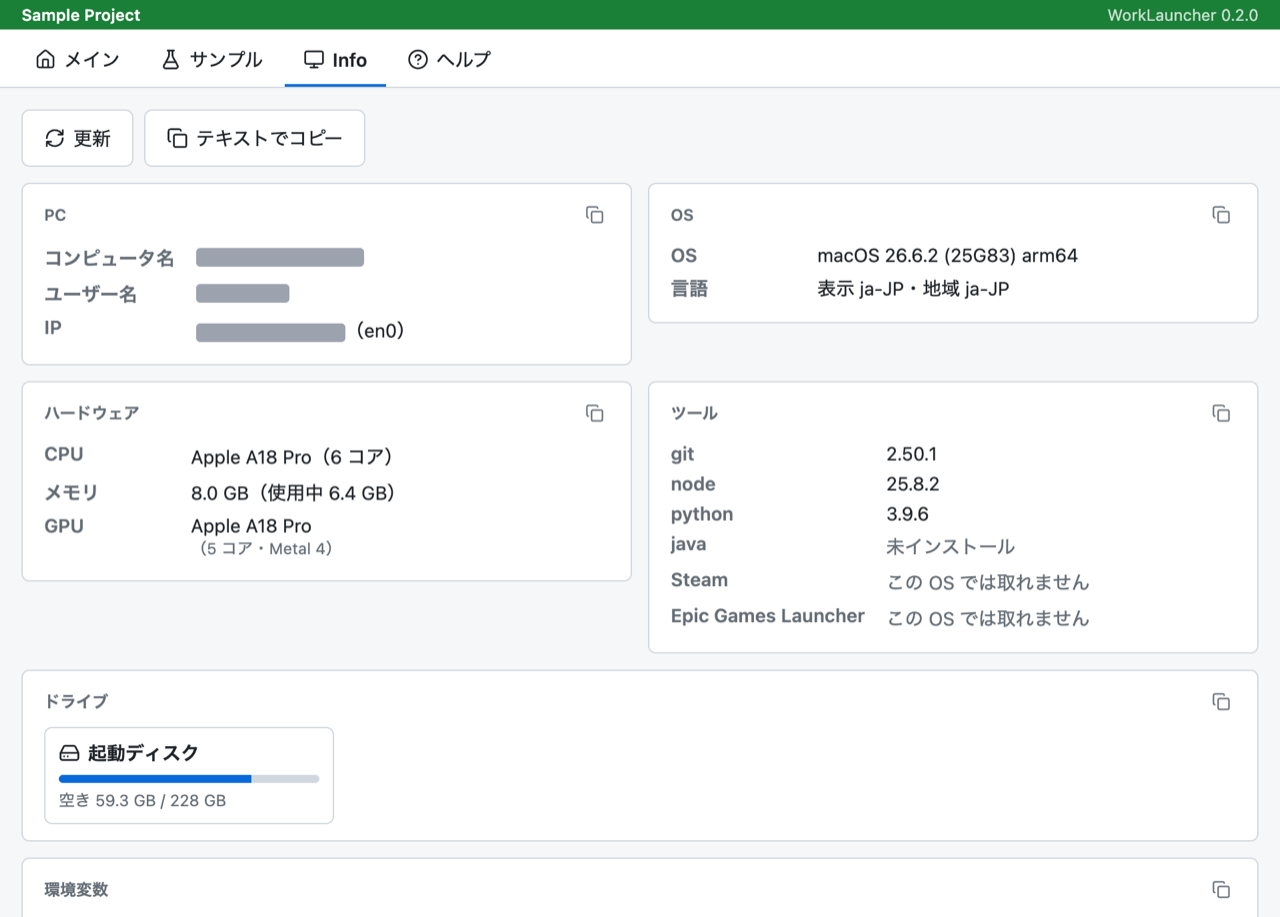
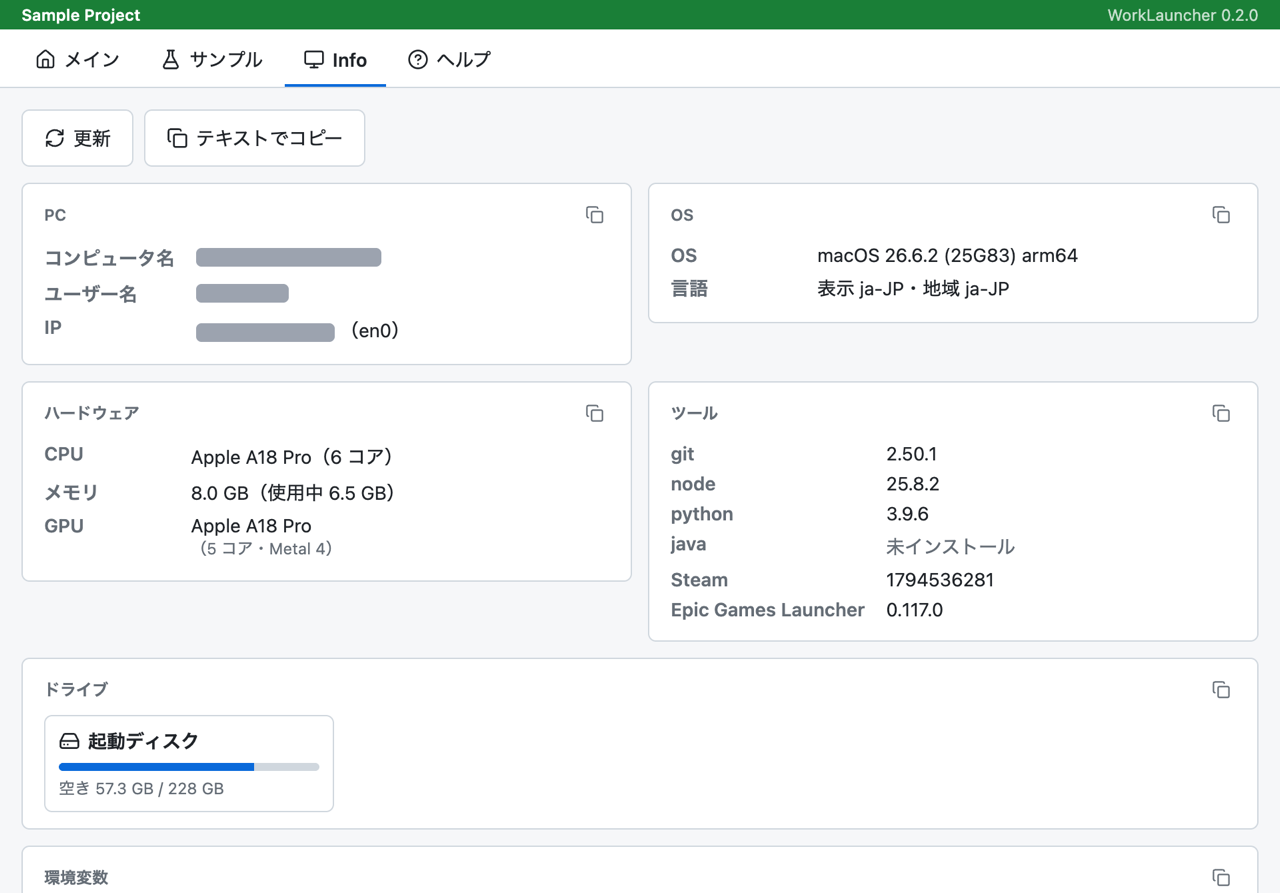
Phase 20 を完了にし、README とヘルプを Mac の Steam・Epic に合わせる (#26)
* README の Info の表を Mac の Steam・Epic に合わせ、Info の画面を撮り直す

- Phase 20 で Mac でも Steam・Epic Games Launcher のバージョンを出せるようにしたので、
  README の表（日本語・英語）の Mac の欄を ✅ にする
- Info の画面を撮り直す（Mac の Steam・Epic のバージョンが出る。個人情報はマスク）

* ヘルプの Info の章に組み込みのツールの一覧表を足す

- tools に名前だけで書けるツール（git〜epic）と、出すものを表にする
- 表の名前は core の BUILTIN_TOOLS と同じ並びであることをテストで確かめる
- README の設定例のコメントにも steam・epic を足す

* Phase 20 を完了にする

- Windows の実機での確認と、ツールの定義を1ファイルにまとめる案を「次に扱う候補」へ移す

---------

diff --git a/src/renderer/src/help/sections/Info.tsx b/src/renderer/src/help/sections/Info.tsx
@@ -1,4 +1,5 @@
-import { Code, Section } from '../parts'
+import { BUILTIN_TOOL_ROWS } from '../examples'
+import { Code, Section, Table } from '../parts'
 
 /** ヘルプの章「Info ページ」 */
 export function Info(): React.JSX.Element {
@@ -12,8 +13,7 @@ export function Info(): React.JSX.Element {
       <Code lang="yaml">{`info:
   env: [JAVA_HOME, PATH]       # 表示する環境変数
   tools:
-    - git                      # 組み込み: git node npm python java docker dotnet
-                               #   Windows と Mac だけ: steam epic
+    - git                      # 組み込みのツールは名前だけ書く（下の表）
     - node
     - name: Maven              # 組み込みに無いものはコマンドを書く
       command: mvn -v
@@ -23,8 +23,17 @@ export function Info(): React.JSX.Element {
     - name: JDK                # 表示名（省略時は値の名前）
       path: HKLM\\SOFTWARE\\JavaSoft\\JDK\\CurrentVersion
   drives: false                # ドライブを出さないとき`}</Code>
+      <h3>組み込みのツール</h3>
       <p>
-        ツールのコマンドは、ランチャーのフォルダで実行します。見つからないときは「未インストール」と出ます。
+        <code>tools</code>{' '}
+        に名前だけ書けば、バージョンの取り方を書かなくても出せるツールです。どれも Windows と Mac
+        で使えます。ここに無いものは、上の Maven のように <code>command</code> と{' '}
+        <code>pattern</code> を書きます。
+      </p>
+      <Table head={['名前', '出すもの']} rows={BUILTIN_TOOL_ROWS} />
+      <p>
+        ツールのコマンドは、ランチャーのフォルダで実行します。見つからないときは「未インストール」と出ます。Steam
+        は、一度も起動していなければ「未インストール」と出ます。
       </p>
       <p>
         レジストリのパスには引用符を付けないでください。<code>{'"…"'}</code> で囲むと、

diff --git a/src/renderer/src/help/examples.test.ts b/src/renderer/src/help/examples.test.ts
@@ -1,7 +1,8 @@
 /// <reference types="node" />
 import { describe, expect, it } from 'vitest'
+import { BUILTIN_TOOLS } from '../../../core/load/info'
 import { loadItems } from '../../../core/load/testing'
-import { ELEMENT_CHEATS, EXAMPLES, ITEM_CHEATS, LAYOUT_CHEATS } from './examples'
+import { BUILTIN_TOOL_ROWS, ELEMENT_CHEATS, EXAMPLES, ITEM_CHEATS, LAYOUT_CHEATS } from './examples'
 
 describe('ヘルプの書き方の例', () => {
   const all = [
@@ -14,5 +15,11 @@ describe('ヘルプの書き方の例', () => {
     const { items, diagnostics } = await loadItems(example.yaml)
     expect(diagnostics).toEqual([])
     expect(items).toEqual(example.items.map((item) => expect.objectContaining(item)))
+  })
+})
+
+describe('ヘルプの組み込みツールの表', () => {
+  it('core の組み込みツールと同じものを同じ並びで載せる', () => {
+    expect(BUILTIN_TOOL_ROWS.map(([name]) => name)).toEqual(BUILTIN_TOOLS)
   })
 })

diff --git a/src/renderer/src/help/examples.ts b/src/renderer/src/help/examples.ts
@@ -454,3 +454,16 @@ export const LAYOUT_CHEATS: Cheat[] = [
     items: [{ kind: 'html', content: '<b>注意</b>' }]
   }
 ]
+
+/** 組み込みのツール（tools に名前だけで書けるもの）。core の BUILTIN_TOOLS と同じ並び（examples.test.ts で確かめる） */
+export const BUILTIN_TOOL_ROWS: [name: string, shows: string][] = [
+  ['git', 'Git'],
+  ['node', 'Node.js'],
+  ['npm', 'npm'],
+  ['python', 'Python（Windows は py、無ければ python。Mac は python3）'],
+  ['java', 'Java'],
+  ['docker', 'Docker'],
+  ['dotnet', '.NET SDK'],
+  ['steam', 'Steam（「Steam について」に出るクライアントのバージョン）'],
+  ['epic', 'Epic Games Launcher']
+]

diff --git a/docs/README.md b/docs/README.md
@@ -46,7 +46,7 @@
 | 17  | CI の絞り込み ✅    | docs だけの変更では check を飛ばす     |
 | 18  | 関数から項目 ✅     | ctx から url・Office・実行系を呼ぶ     |
 | 19  | CI の重複 ✅        | main への push では CI を流さない      |
-| 20  | Mac のゲーム 🚧     | Mac でも Steam・Epic のバージョン      |
+| 20  | Mac のゲーム ✅     | Mac でも Steam・Epic のバージョン      |
 
 ## 次に扱う候補
 
@@ -57,3 +57,5 @@
 - eslint 10 に上げる。eslint-plugin-react が対応してから（Dependabot の PR を 2026-11 に閉じた）（→ phase12）
 - TypeScript 7 に上げる。lint が通らない（typescript-eslint の対応待ちと思われる）（→ phase12）
 - 署名を入れる。Win は SignPath Foundation（無償・審査あり）、mac は Apple Developer Program。使う人が出てから（2026-11 に見送り）（→ phase8）
+- Info のツールの定義（コマンド・pattern・表示名・対応 OS・ヘルプの説明）を1ファイルにまとめ、そこだけ直せばツールを足せるようにする（→ phase20）
+- Windows の実機で、Phase 20 のあとも Steam・Epic のバージョンが変わらず出るか確かめる（→ phase20）

diff --git a/docs/phase20-mac-game-launchers/PLAN.md b/docs/phase20-mac-game-launchers/PLAN.md
@@ -19,3 +19,10 @@ Info ページの組み込みツール `steam`・`epic` は Windows だけで、
 
 - Steam は実物を起動して manifest の場所と値を確かめてから実装する（ユーザー判断）
 - Epic は Info.plist の値（0.117.0）がアプリ内の表示と同じことをユーザーが確かめた
+
+### 2026-11-21: Windows の実機での確認は残してフェーズを閉じる（ユーザー判断）
+
+- Windows の取り方は変えていないため。確認は「次に扱う候補」へ移す
+- ヘルプの Info の章に組み込みのツールの一覧表を足した（表の名前は core の BUILTIN_TOOLS とテストで突き合わせる）
+- ツールごとの取り方（コマンド・pattern・表示名・対応 OS・ヘルプの説明）が core とヘルプに分かれている。
+  1ファイルにまとめ、ツールを足すときはそこだけ直せばよい形にしたい（ユーザーの希望。「次に扱う候補」へ）

diff --git a/docs/phase20-mac-game-launchers/TASKS.md b/docs/phase20-mac-game-launchers/TASKS.md
@@ -4,6 +4,7 @@
 - [x] テスト（Mac のコマンドと出力の読み取り）
 - [x] config.md・ヘルプの「Windows だけ」を直す
 - [x] 実機（Mac）の Info ページで値が出ることを確かめる
+- [x] ヘルプの Info の章に、組み込みのツールの一覧表を足す（core の一覧とテストで突き合わせる）
 - [ ] Windows の実機で変わらず出ることを確かめる
 
 ## 共通
